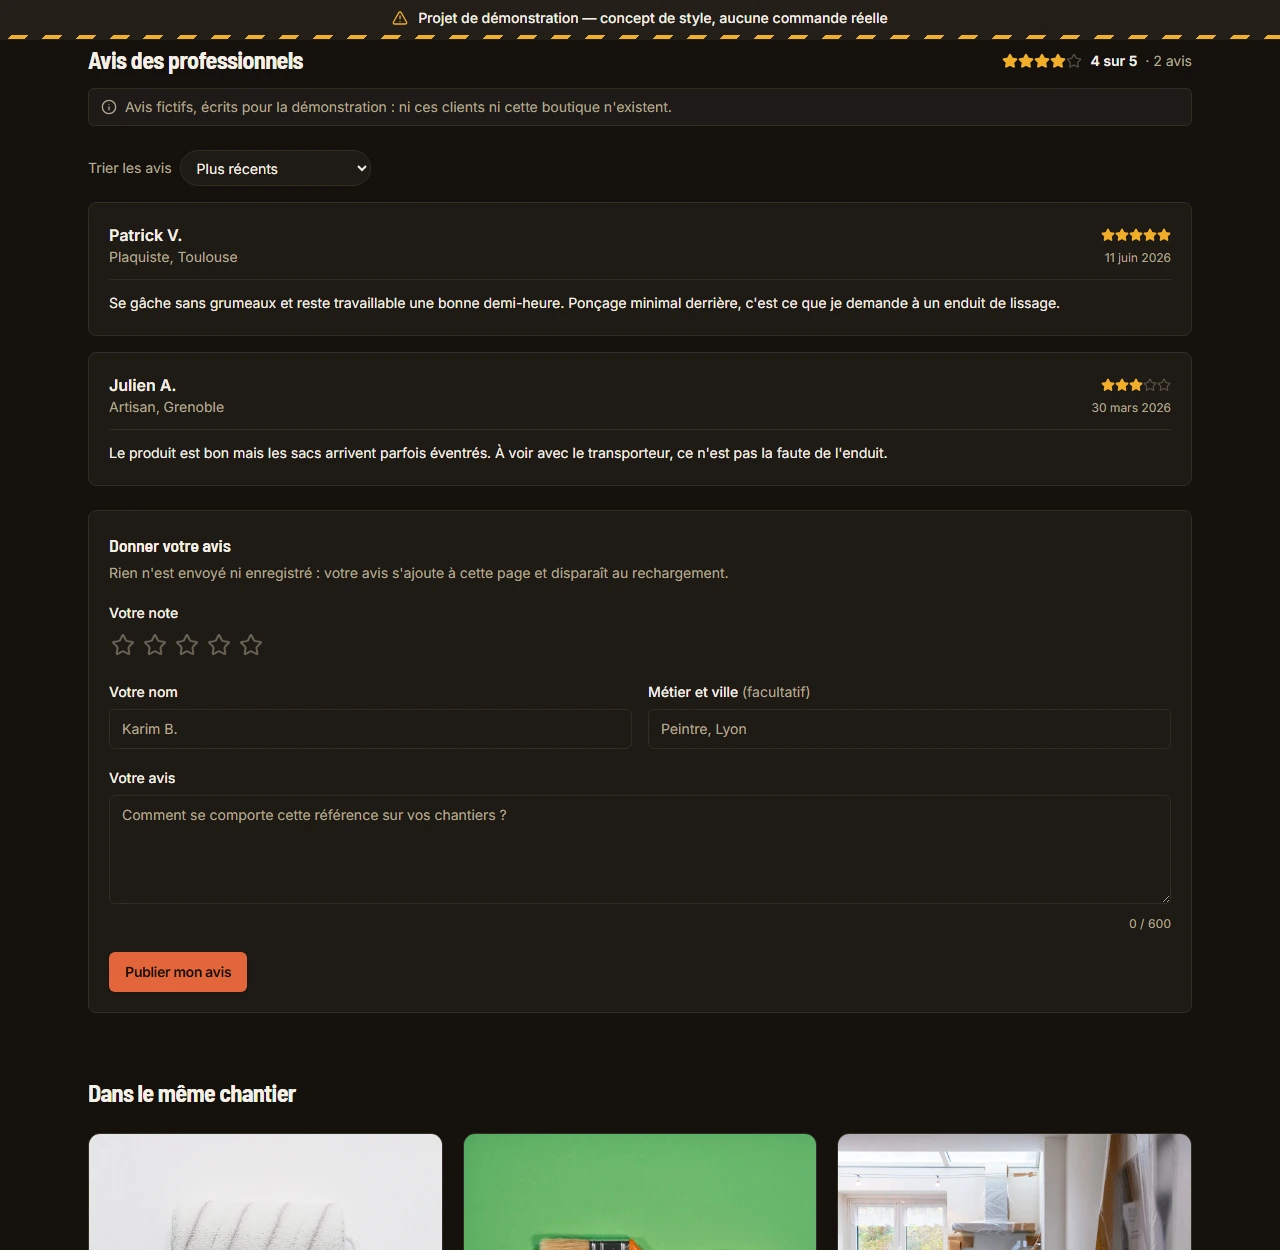
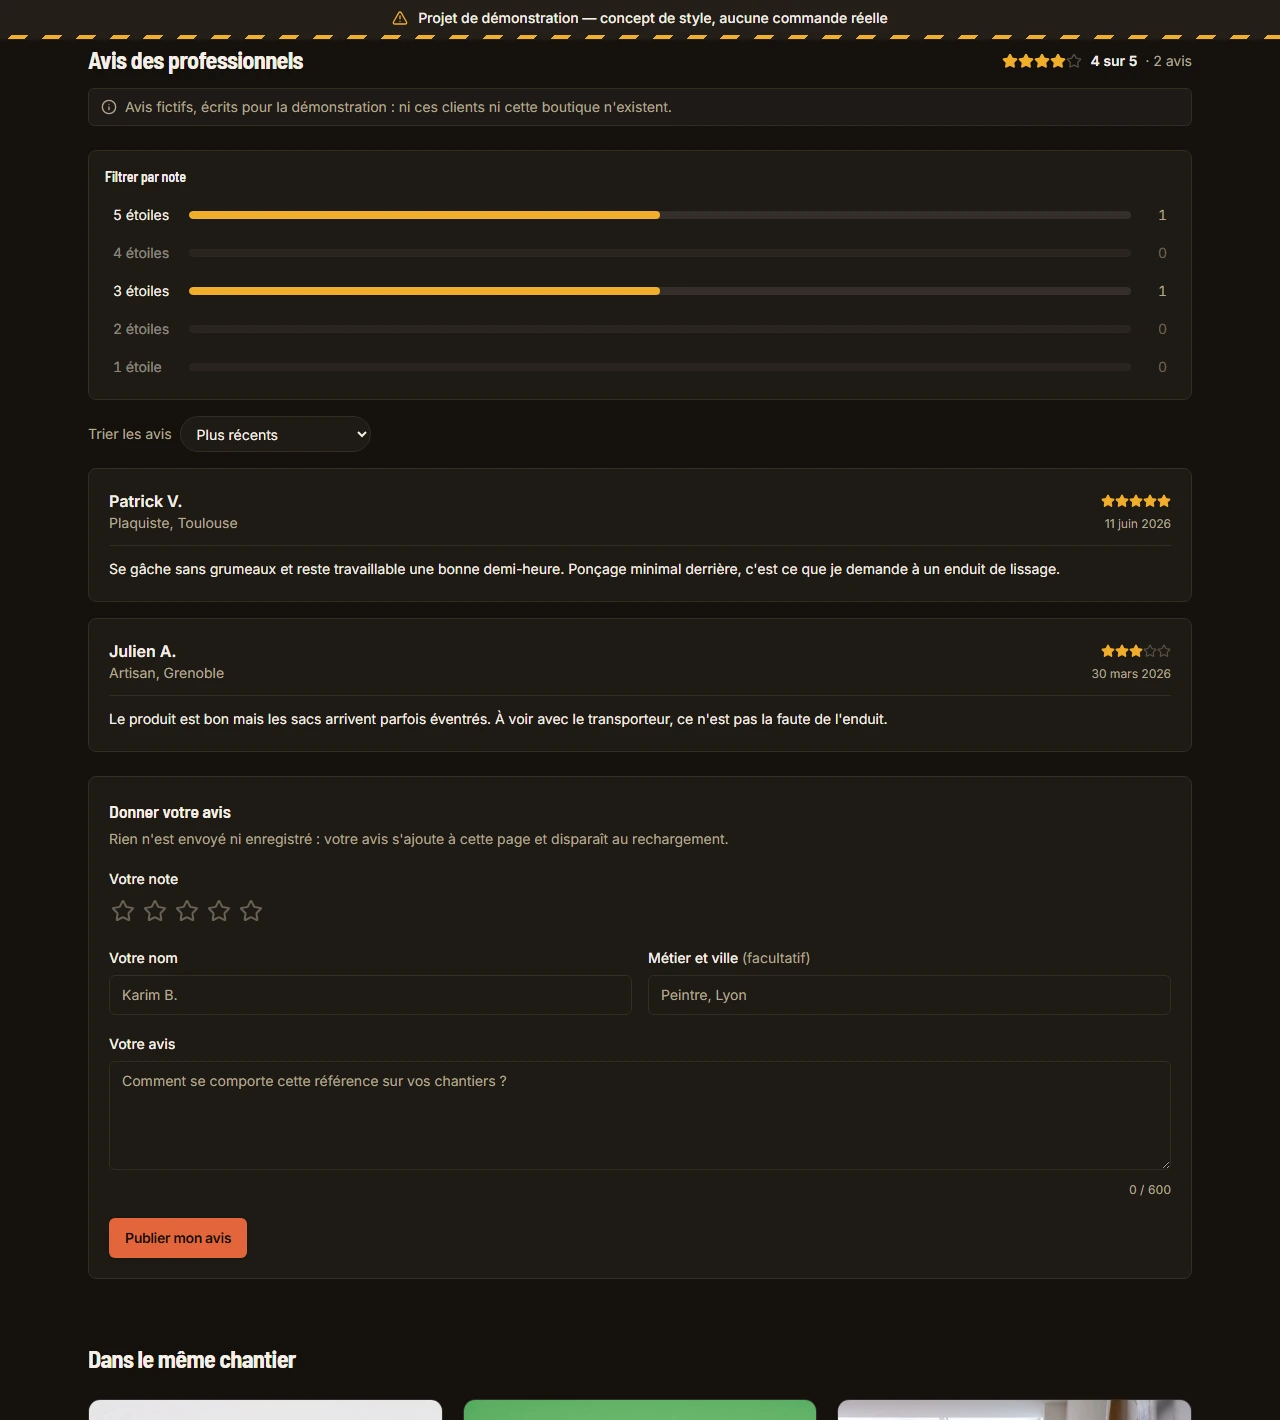
Ajoute un filtre par note sur les avis
Un histogramme des notes, de 5 à 1, montre combien d'avis portent chacune et
sert de filtre : un clic restreint la liste, un second le lève — pas besoin
d'un bouton « tout » à côté. Les notes sans avis sont désactivées plutôt que
cliquables pour rien.

La moyenne et le total en tête continuent de porter sur l'ensemble, même
filtré : ils sont côte à côte, ils doivent parler du même lot. Le nombre affiché
est annoncé séparément quand un filtre est actif.

Déposer un avis lève le filtre en cours, sans quoi un avis noté autrement que
le filtre disparaîtrait à l'instant même de sa publication.

La piste des barres passe en `bg-foreground/10` : en `bg-muted` elle devenait
invisible sur la ligne sélectionnée, qui prend ce même fond.

Vue avis recadrée à 1420 px, le panneau ayant repoussé le formulaire hors du
cadre précédent.

diff --git a/src/components/sections/AvisClients.tsx b/src/components/sections/AvisClients.tsx
@@ -3,6 +3,7 @@ import { Info, MessageSquareOff } from "lucide-react"
 
 import { Etoiles } from "@/components/Etoiles"
 import { Separator } from "@/components/ui/separator"
+import { cn } from "@/lib/utils"
 import { type Avis } from "@/data/avis"
 import { FormulaireAvis } from "@/components/sections/FormulaireAvis"
 
@@ -47,8 +48,19 @@ export function AvisClients({
    * note croissante ».
    */
   const [tri, setTri] = React.useState<TriAvis>("recent")
+  /** Note sélectionnée dans l'histogramme, `null` quand tout est affiché. */
+  const [filtreNote, setFiltreNote] = React.useState<number | null>(null)
 
-  const liste = trier(tous, tri)
+  // De 5 à 1 : c'est l'ordre attendu d'un histogramme d'avis.
+  const distribution = [5, 4, 3, 2, 1].map((note) => ({
+    note,
+    nombre: tous.filter((a) => a.note === note).length,
+  }))
+
+  const filtres = filtreNote
+    ? tous.filter((a) => a.note === filtreNote)
+    : tous
+  const liste = trier(filtres, tri)
 
   return (
     <section className="mt-16" aria-labelledby="titre-avis">
@@ -62,9 +74,9 @@ export function AvisClients({
             <span className="font-semibold">
               {moyenne.toLocaleString("fr-FR")} sur 5
             </span>
-            <span className="text-muted-foreground">
-              · {liste.length} avis
-            </span>
+            {/* Le total, pas le nombre filtré : la moyenne à côté porte sur
+                l'ensemble, les deux chiffres doivent parler du même lot. */}
+            <span className="text-muted-foreground">· {tous.length} avis</span>
           </p>
         )}
       </div>
@@ -78,8 +90,71 @@ export function AvisClients({
         boutique n'existent.
       </p>
 
+      {tous.length > 0 && (
+        <div className="mt-6 rounded-lg border border-border bg-card p-4">
+          <h3 className="text-sm font-semibold">Filtrer par note</h3>
+          <ul className="mt-3 flex flex-col gap-1.5">
+            {distribution.map(({ note, nombre }) => {
+              const actif = filtreNote === note
+              const part = tous.length === 0 ? 0 : (nombre / tous.length) * 100
+              return (
+                <li key={note}>
+                  <button
+                    type="button"
+                    // Un clic sur la note active la retire : pas besoin d'un
+                    // bouton « tout » séparé.
+                    onClick={() => setFiltreNote(actif ? null : note)}
+                    disabled={nombre === 0}
+                    aria-pressed={actif}
+                    className={cn(
+                      "flex w-full items-center gap-3 rounded-md px-2 py-1.5 text-left text-sm transition-colors",
+                      nombre === 0
+                        ? "cursor-not-allowed opacity-50"
+                        : "hover:bg-muted",
+                      actif && "bg-muted",
+                    )}
+                  >
+                    <span className="w-16 shrink-0 tabular-nums">
+                      {note} étoile{note > 1 ? "s" : ""}
+                    </span>
+                    <span
+                      aria-hidden="true"
+                      className="h-2 flex-1 overflow-hidden rounded-full bg-foreground/10"
+                    >
+                      <span
+                        className="block h-full rounded-full bg-accent transition-[width] duration-300"
+                        style={{ width: `${part}%` }}
+                      />
+                    </span>
+                    <span className="w-6 shrink-0 text-right tabular-nums text-muted-foreground">
+                      {nombre}
+                    </span>
+                  </button>
+                </li>
+              )
+            })}
+          </ul>
+
+          {filtreNote !== null && (
+            <p className="mt-3 flex flex-wrap items-center gap-2 border-t border-border pt-3 text-sm text-muted-foreground">
+              <span aria-live="polite">
+                {liste.length} avis sur {tous.length} affiché
+                {liste.length > 1 ? "s" : ""}.
+              </span>
+              <button
+                type="button"
+                onClick={() => setFiltreNote(null)}
+                className="font-medium text-primary underline underline-offset-4"
+              >
+                Voir tous les avis
+              </button>
+            </p>
+          )}
+        </div>
+      )}
+
       {liste.length > 1 && (
-        <label className="mt-6 flex items-center gap-2 text-sm text-muted-foreground">
+        <label className="mt-4 flex items-center gap-2 text-sm text-muted-foreground">
           <span className="shrink-0">Trier les avis</span>
           <select
             value={tri}
@@ -95,7 +170,7 @@ export function AvisClients({
         </label>
       )}
 
-      {liste.length === 0 ? (
+      {tous.length === 0 ? (
         <p className="mt-6 flex items-center gap-2 rounded-lg border border-border bg-card px-5 py-8 text-sm text-muted-foreground">
           <MessageSquareOff className="size-4 shrink-0" aria-hidden="true" />
           Cette référence n'a pas encore d'avis.
@@ -137,7 +212,14 @@ export function AvisClients({
         </ul>
       )}
 
-      <FormulaireAvis onAjout={onAjout} />
+      <FormulaireAvis
+        onAjout={(nouveau) => {
+          // Sans ça, un avis déposé avec une autre note serait invisible :
+          // il tomberait hors du filtre actif.
+          setFiltreNote(null)
+          onAjout(nouveau)
+        }}
+      />
     </section>
   )
 }

diff --git a/README.md b/README.md
@@ -27,8 +27,9 @@ La fiche produit, atteinte en cliquant une carte. Elle décline le prix unitaire
 
 ![Section avis : moyenne en étoiles, mention d'avis fictifs, sélecteur de tri, deux avis et le formulaire de dépôt](docs/captures/09-avis.webp)
 
-Les avis, en bas de fiche. La mention d'avis fictifs est en clair au-dessus de
-la liste, et le formulaire annonce avant la saisie que rien n'est envoyé.
+Les avis, en bas de fiche : histogramme des notes qui sert de filtre, tri, liste
+et formulaire. La mention d'avis fictifs est en clair au-dessus, et le
+formulaire annonce avant la saisie que rien n'est envoyé.
 
 ![Panneau panier ouvert : deux lignes avec photo et sélecteur de quantité, jauge vers le palier suivant, remise artisan appliquée au total](docs/captures/05-panier.webp)
 
@@ -135,6 +136,13 @@ le formulaire annonce avant la saisie.
 Les avis déposés vivent dans `PageProduit` et non dans la section, pour que le
 résumé sous le titre et la liste ne puissent pas afficher deux chiffres
 différents. Une clé sur la fiche les remet à zéro d'un produit à l'autre.
+
+Un histogramme des notes sert aussi de filtre : chaque barre montre combien
+d'avis portent cette note et s'active au clic, un second clic la désactivant —
+pas besoin d'un bouton « tout » à côté. Les notes sans avis sont désactivées,
+et déposer un avis lève le filtre en cours, sans quoi le nouvel avis serait
+invisible s'il tombait hors du filtre. La moyenne et le total en tête portent
+toujours sur l'ensemble : ils doivent parler du même lot.
 
 Les avis se trient par date ou par note, à note égale le plus récent d'abord.
 Ce tri-là reste en état local, contrairement à celui du catalogue : la règle
